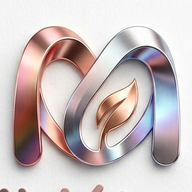
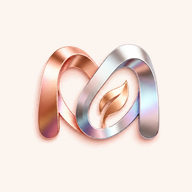
act

diff --git a/src/App.tsx b/src/App.tsx
@@ -54,7 +54,7 @@ function Inicio({db,n,hoy,go,setTab}:any){
  const Q=[['Síntomas',HeartPulse,()=>go('sint')],['Cambios',CalendarDays,()=>go('camb')],['IA',Sparkles,()=>setTab('chat')],['Educación',BookOpen,()=>setTab('tips')]] as const
  const rec=db.rec.find((r:any)=>r.on)
  return <div className="space-y-3 p-4 pb-32">
-  <div className="flex items-center gap-3"><img src="/logo-mark.png" alt="MiMétodo" className="h-14 w-14 rounded-2xl shadow-soft"/><div className="flex-1"><h1 className="text-2xl font-medium">MiMétodo</h1><p className="text-[11px] opacity-70">Tu salud, tu ritmo, tu decisión.</p></div><button aria-label="Perfil" onClick={()=>setTab('me')} className="grid h-11 w-11 place-items-center rounded-full bg-white shadow-soft"><Avatar i={db.perfil.avatar} size={44}/></button></div>
+  <div className="flex items-center gap-3"><img src="/logo-mark.png" alt="MiMétodo" className="h-14 w-14 object-contain"/><div className="flex-1"><h1 className="text-2xl font-medium">MiMétodo</h1><p className="text-[11px] opacity-70">Tu salud, tu ritmo, tu decisión.</p></div><button aria-label="Perfil" onClick={()=>setTab('me')} className="grid h-11 w-11 place-items-center rounded-full bg-white shadow-soft"><Avatar i={db.perfil.avatar} size={44}/></button></div>
   <C><p className="text-lg font-medium">¡Hola, {db.perfil.nombre}! ♡</p><p className="text-sm opacity-70">Hoy es un gran día para cuidar de ti 💕</p></C>
   <div className="up flex items-center gap-4 rounded-3xl bg-gradient-to-br from-[#c9936f] to-[#8f5c3f] p-4 text-white shadow-soft"><Flame size={44}/><div><p className="text-xs">Tu racha diaria</p><p className="text-3xl font-semibold">{n} <span className="text-sm font-normal">días seguidos usando MiMétodo</span></p></div></div>
   <Row icon={<Pill size={22}/>} title="Tu método actual" sub={db.metodo} onClick={()=>setTab('me')}/>
@@ -146,7 +146,7 @@ function Login({save}:{save:(p:Partial<DB>)=>void}){
  const [av,setAv]=useState(0),[nombre,setN]=useState(''),[edad,setE]=useState(''),[metodo,setM]=useState('Pastillas anticonceptivas'),[err,setErr]=useState('')
  const go=()=>{const a=Number(edad);if(!nombre.trim())return setErr('Escribe tu nombre');if(!(a>=10&&a<=100))return setErr('Escribe una edad válida');save({perfil:{nombre:nombre.trim(),edad:a,avatar:av},metodo,visitas:[iso()]})}
  return <div className="mx-auto flex h-[100dvh] max-w-[430px] flex-col justify-center overflow-y-auto bg-gradient-to-b from-cream to-rose p-6 pt-[max(1.5rem,env(safe-area-inset-top))]">
-  <div className="up mb-6 text-center"><img src="/logo-full.png" alt="MiMétodo, tu salud, tu ritmo, tu decisión" className="mx-auto mb-2 w-64 rounded-3xl"/><h1 className="text-xl font-medium">Bienvenida</h1></div>
+  <div className="up mb-6 text-center"><img src="/logo-full.png" alt="MiMétodo, tu salud, tu ritmo, tu decisión" className="mx-auto w-64"/><p className="mt-1 text-lg">Bienvenida</p></div>
   <C><Lbl>Elige tu avatar</Lbl><Picker v={av} set={setAv}/><Lbl>¿Cómo te llamas?</Lbl><Inp value={nombre} onChange={(e:any)=>setN(e.target.value)} placeholder="Tu nombre" autoComplete="given-name"/>
    <Lbl>¿Qué edad tienes?</Lbl><Inp type="number" inputMode="numeric" value={edad} onChange={(e:any)=>setE(e.target.value)} placeholder="Tu edad"/>
    <Lbl>Tu método actual</Lbl><select value={metodo} onChange={e=>setM(e.target.value)} className="w-full rounded-2xl border border-sand bg-white px-4 py-3 text-sm">{['Pastillas anticonceptivas','Parche','Anillo vaginal','DIU','Implante','Inyección','Preservativo','Ninguno / Otro'].map(x=><option key={x}>{x}</option>)}</select>
